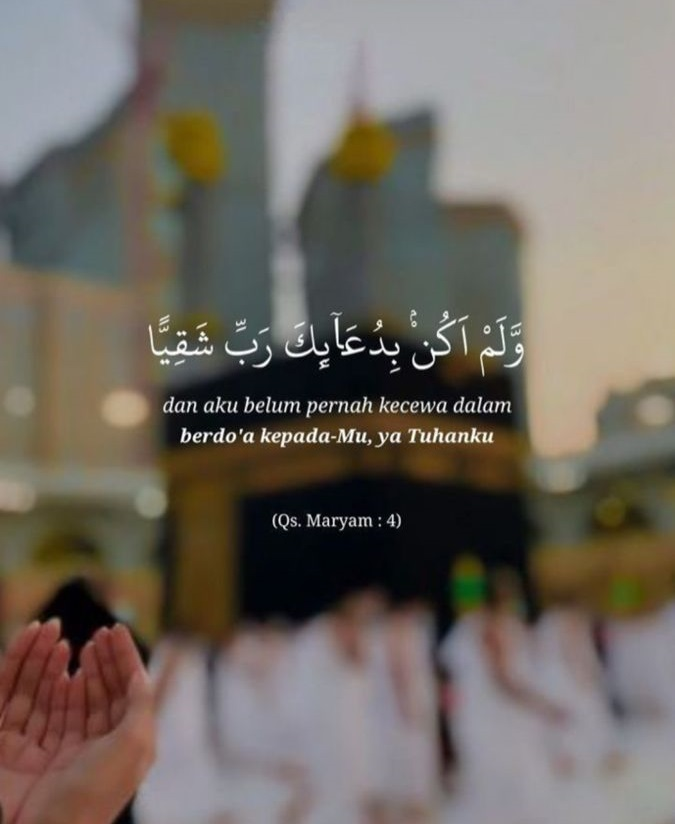
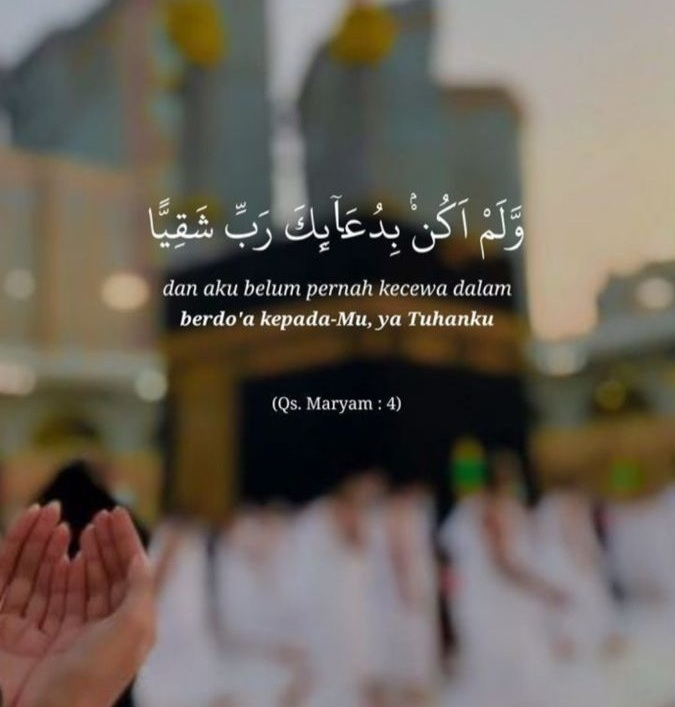
refreshing poster

diff --git a/js/script.js b/js/script.js
@@ -67,8 +67,9 @@ document.addEventListener("DOMContentLoaded", () => {
       return "";
     }
 
-    const searchStr = `${data.penceramah || ""} ${data.tajuk || ""
-      }`.toLowerCase();
+    const searchStr = `${data.penceramah || ""} ${
+      data.tajuk || ""
+    }`.toLowerCase();
 
     // Priority: Solat Aidiladha
     if (searchStr.includes("aidiladha")) {
@@ -261,11 +262,12 @@ document.addEventListener("DOMContentLoaded", () => {
   function setupPosterSlider() {
     const sliderWrapper = document.getElementById("poster-slider");
     const posters = [
-      "img/surau_poster/quote.jpeg",
+      "img/surau_poster/quote.jpg",
       "img/surau_poster/quote_2.jpeg",
-      "img/surau_poster/tasbih.jpg",
-      "img/surau_poster/post_qurban.jpeg",
-      "img/surau_poster/hajj.jpg",
+      "img/surau_poster/quote_3.jpeg",
+      "img/surau_poster/quote_4.jpg",
+      "img/surau_poster/quote_5.jpg",
+      "img/surau_poster/quote_6.jpg",
       "img/surau_poster/selawat_bulanan.jpeg",
     ];
 
@@ -703,8 +705,9 @@ document.addEventListener("DOMContentLoaded", () => {
 
           const activityCard = document.createElement("div");
 
-          activityCard.className = `activity-group ${activity.is_batal ? "cancelled" : ""
-            }`;
+          activityCard.className = `activity-group ${
+            activity.is_batal ? "cancelled" : ""
+          }`;
 
           activityCard.dataset.startTime = activity.startTime.toISOString();
 
@@ -730,21 +733,23 @@ document.addEventListener("DOMContentLoaded", () => {
                     ${masaDisplay}
                   </div>
 
-                  ${activity.nota
-              ? `
+                  ${
+                    activity.nota
+                      ? `
                         <div class="act-note">
                           ${activity.nota}
                         </div>
                       `
-              : ""
-            }
+                      : ""
+                  }
 
                 </div>
 
                 ${speakerPhoto}
 
-                ${activity.is_batal
-              ? `
+                ${
+                  activity.is_batal
+                    ? `
                       <div class="batal-overlay">
                         <img
                           src="img/system/tangguh.png"
@@ -752,8 +757,8 @@ document.addEventListener("DOMContentLoaded", () => {
                         >
                       </div>
                     `
-              : ""
-            }
+                    : ""
+                }
 
               </div>
             `;
@@ -854,8 +859,9 @@ document.addEventListener("DOMContentLoaded", () => {
           itemDiv.innerHTML = `
                         <div class="act-icon"><i class="fa-solid ${icon}"></i></div>
                         <div class="act-details">
-                            <div class="act-title">${act.acara} ${act.masa ? `(${act.masa})` : ""
-            }</div>
+                            <div class="act-title">${act.acara} ${
+            act.masa ? `(${act.masa})` : ""
+          }</div>
                             <div class="act-lead">${act.oleh}</div>
                         </div>
                     `;